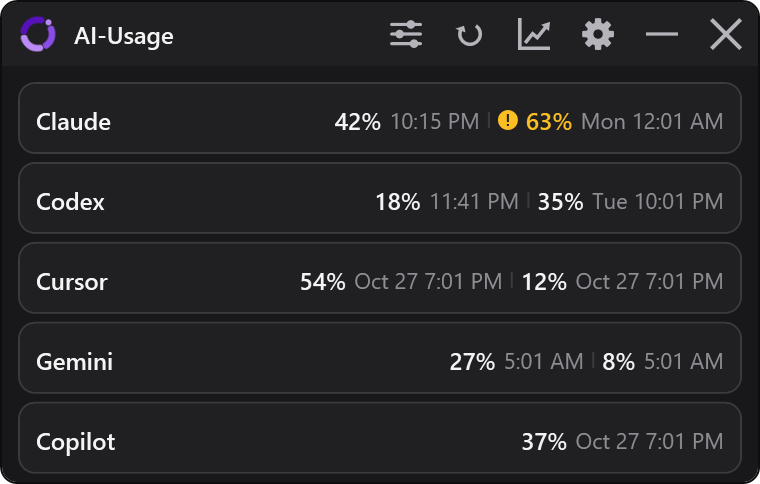
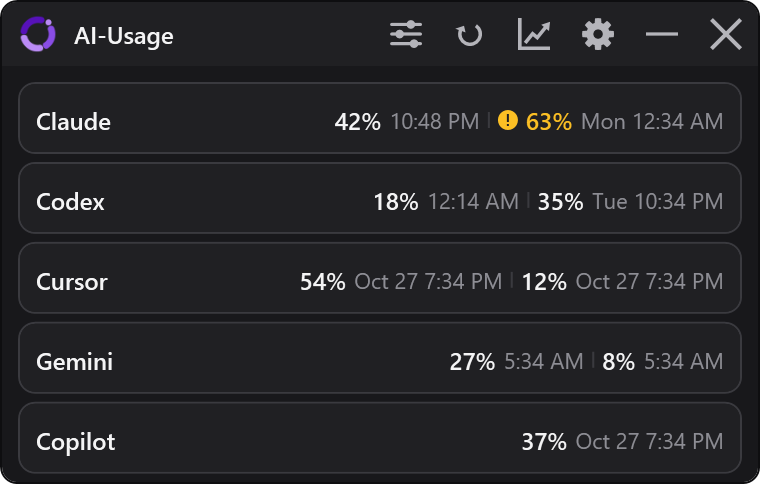
Make the README sample usage look like a real year

diff --git a/tools/ReadmeShots/SampleUsage.cs b/tools/ReadmeShots/SampleUsage.cs
@@ -1,75 +1,160 @@
-using AiUsage.Stats;
+using AiUsage.Stats;
 
 namespace ReadmeShots;
 
-/// <summary>Twelve months of invented token usage for the statistics picture: a Claude and a Codex
-/// session on most weekdays, lighter and rarer on weekends, growing over the year, mostly cache reads.</summary>
+/// <summary>Invented token usage for the statistics picture, shaped like a real developer's year:
+/// Claude from about eleven months back, Codex joining later, quiet weekends with the odd burst,
+/// holidays and sick days, uneven day sizes, a focus project per week, newer models replacing older
+/// ones, and a busier last few weeks. Seeded, so every run draws the same picture.</summary>
 internal static class SampleUsage
 {
     private static readonly string[] Projects =
     [
-        @"C:\Projects\web-shop", @"C:\Projects\api-server", @"C:\Projects\mobile-app", @"C:\Projects\docs-site",
+        @"C:\Projects\checkout-service", @"C:\Projects\aurora-ui", @"C:\Projects\billing-api",
+        @"C:\Projects\infra-terraform", @"C:\Projects\ml-pipeline", @"C:\Projects\landing-page",
     ];
 
-    private static readonly double[] ProjectWeights = [0.38, 0.30, 0.20, 0.12];
-
-    // Working hours carry most of the day, with a quiet start and a lunch dip, so the hour chart
-    // reads as a calm curve instead of a few spikes.
-    private static readonly double[] HourWeights =
-    [
-        0, 0, 0, 0, 0, 0, 0, 0.2, 0.6, 1.0, 1.2, 1.1, 0.6, 0.9, 1.2, 1.3, 1.1, 0.9, 0.6, 0.4, 0.3, 0.2, 0.1, 0,
-    ];
+    private static readonly double[] ProjectWeights = [0.30, 0.24, 0.18, 0.12, 0.10, 0.06];
 
     internal static IReadOnlyList<StatsRecord> Build(DateOnly today)
     {
-        var random = new Random(20260702);
+        var random = new Random(20261008);
         var records = new List<StatsRecord>();
-        var first = today.AddDays(-364);
+        var first = today.AddDays(-330);
+        var codexStart = today.AddDays(-190);
+        // A two week summer break about four months back.
+        var summerBreakStart = today.AddDays(-125);
+        var codexStreak = 0;
+        var focusProject = 0;
 
         for (var day = first; day <= today; day = day.AddDays(1))
         {
-            var progress = (day.DayNumber - first.DayNumber) / 364.0;
+            var progress = (day.DayNumber - first.DayNumber) / 330.0;
+            if (day.DayOfWeek == DayOfWeek.Monday || day == first)
+                focusProject = PickWeighted(random, ProjectWeights);
+
+            if (IsDayOff(day, today, summerBreakStart, random))
+                continue;
+
+            // Uneven day sizes (a log-normal spread) on a base that grows over the year and picks up
+            // in the last six weeks, so the period comparison shows growth.
+            var size = Math.Exp(0.6 * Gaussian(random));
+            var dayTotal = 20_000_000 * (0.8 + 0.7 * progress) * size;
+            dayTotal *= 1 + 0.35 * Math.Max(0, progress - 0.87) / 0.13;
             var weekend = day.DayOfWeek is DayOfWeek.Saturday or DayOfWeek.Sunday;
-
-            // A steady rise over the year, a slow few-week swell on top and modest day-to-day noise:
-            // every day has some usage, weekends a lighter share of it.
-            var swell = 1 + 0.06 * Math.Sin(day.DayNumber / 9.0);
-            var noise = 0.8 + 0.4 * random.NextDouble();
-            var dayTotal = 30_000_000 * (0.6 + 0.6 * progress) * swell * noise;
-            // The last six weeks pick up pace, so the period comparison shows growth.
-            dayTotal *= 1 + 0.3 * Math.Max(0, progress - 0.88) / 0.12;
             if (weekend)
-                dayTotal *= 0.3 + 0.15 * random.NextDouble();
+                dayTotal *= 0.15 + 0.5 * random.NextDouble();
 
-            // Claude leads most days; every sixth week is a Codex-heavy stretch.
-            var codexWeek = day.DayNumber / 7 % 6 == 3;
-            var claudeShare = (codexWeek ? 0.36 : 0.66) + 0.08 * (random.NextDouble() - 0.5);
-            AddProviderDay(records, random, "claude", day, dayTotal * claudeShare);
-            AddProviderDay(records, random, "codex", day, dayTotal * (1 - claudeShare));
+            // Codex joins later and grows; now and then a run of Codex-heavy days, and some days
+            // without Codex at all.
+            var codexShare = 0.0;
+            if (day >= codexStart)
+            {
+                var codexProgress = (day.DayNumber - codexStart.DayNumber) / 190.0;
+                if (codexStreak == 0 && random.NextDouble() < 0.07)
+                    codexStreak = random.Next(2, 6);
+                if (codexStreak > 0)
+                {
+                    codexShare = 0.6 + 0.25 * random.NextDouble();
+                    codexStreak--;
+                }
+                else if (random.NextDouble() > 0.3)
+                {
+                    codexShare = (0.1 + 0.3 * codexProgress) * (0.5 + random.NextDouble());
+                }
+            }
+
+            var hours = DayHours(random, weekend);
+            AddProviderDay(records, random, "claude", day, dayTotal * (1 - codexShare), progress, hours, focusProject);
+            if (codexShare > 0)
+                AddProviderDay(records, random, "codex", day, dayTotal * codexShare, progress, hours, focusProject);
         }
         return records;
     }
 
-    private static void AddProviderDay(List<StatsRecord> records, Random random, string provider, DateOnly day, double total)
+    /// <summary>Most weekends, the summer break, the days around new year and a few sick days carry
+    /// no usage. The last three weeks stay workdays, so the day detail always has one to show.</summary>
+    private static bool IsDayOff(DateOnly day, DateOnly today, DateOnly summerBreakStart, Random random)
     {
-        var weightSum = HourWeights.Sum();
-        for (var hour = 0; hour < HourWeights.Length; hour++)
+        var offRoll = random.NextDouble();
+        if (day > today.AddDays(-21))
+            return day.DayOfWeek is DayOfWeek.Saturday or DayOfWeek.Sunday && offRoll < 0.6;
+        if (day >= summerBreakStart && day < summerBreakStart.AddDays(14))
+            return true;
+        if ((day.Month == 12 && day.Day >= 24) || (day.Month == 1 && day.Day <= 2))
+            return true;
+        if (day.DayOfWeek is DayOfWeek.Saturday or DayOfWeek.Sunday)
+            return offRoll < 0.65;
+        return offRoll < 0.06;
+    }
+
+    /// <summary>A weight per hour: two to four working sessions of one to three hours between eight
+    /// and seven, and on some days a late session in the evening.</summary>
+    private static double[] DayHours(Random random, bool weekend)
+    {
+        var hours = new double[24];
+        var sessions = weekend ? random.Next(1, 3) : random.Next(2, 5);
+        for (var session = 0; session < sessions; session++)
         {
-            if (HourWeights[hour] <= 0)
+            var start = random.Next(weekend ? 10 : 8, 18);
+            var length = random.Next(1, 4);
+            for (var hour = start; hour < Math.Min(24, start + length); hour++)
+                hours[hour] += 0.5 + random.NextDouble();
+        }
+        if (random.NextDouble() < 0.15)
+            hours[random.Next(20, 24)] += 0.4 + 0.6 * random.NextDouble();
+        return hours;
+    }
+
+    private static void AddProviderDay(
+        List<StatsRecord> records, Random random, string provider, DateOnly day, double total, double progress,
+        double[] hours, int focusProject)
+    {
+        var weightSum = hours.Sum();
+        var cacheShare = 0.80 + 0.1 * random.NextDouble();
+        for (var hour = 0; hour < hours.Length; hour++)
+        {
+            if (hours[hour] <= 0)
                 continue;
 
-            var sliceTotal = total * HourWeights[hour] / weightSum * (0.85 + 0.3 * random.NextDouble());
-            var project = Projects[PickWeighted(random, ProjectWeights)];
-            var (model, effort) = provider == "claude"
-                ? (random.NextDouble() < 0.62 ? "claude-opus-4-6" : "claude-sonnet-4-6", random.NextDouble() < 0.6 ? "high" : "medium")
-                : ("gpt-5-codex", random.NextDouble() < 0.7 ? "medium" : "high");
+            var sliceTotal = total * hours[hour] / weightSum;
+            var project = Projects[random.NextDouble() < 0.6 ? focusProject : PickWeighted(random, ProjectWeights)];
+            var (model, effort) = PickModel(random, provider, progress);
 
-            var cacheRead = (long)(sliceTotal * 0.86);
-            var cacheWrite = (long)(sliceTotal * 0.08);
+            var cacheRead = (long)(sliceTotal * cacheShare);
+            var cacheWrite = (long)(sliceTotal * (0.95 - cacheShare) * 0.7);
             var input = (long)(sliceTotal * 0.02);
             var output = (long)sliceTotal - cacheRead - cacheWrite - input;
             records.Add(new StatsRecord(provider, day, model, project, input, output, cacheWrite, cacheRead, hour, effort));
         }
+    }
+
+    /// <summary>Newer models take over during the year: Opus 4.8 and Sonnet 5 replace the 4.6
+    /// models, GPT-5.6 Sol replaces Codex's first model, with a little Haiku for quick jobs.</summary>
+    private static (string Model, string Effort) PickModel(Random random, string provider, double progress)
+    {
+        var roll = random.NextDouble();
+        if (provider == "codex")
+        {
+            var model = roll < Math.Clamp((progress - 0.55) * 2.5, 0, 0.9) ? "gpt-5.6-sol" : "gpt-5-codex";
+            return (model, random.NextDouble() < 0.65 ? "medium" : "high");
+        }
+
+        var newer = progress > 0.5 && random.NextDouble() < Math.Clamp((progress - 0.5) * 3, 0, 0.95);
+        var claudeModel = roll switch
+        {
+            < 0.06 => "claude-haiku-4-5",
+            < 0.62 => newer ? "claude-opus-4-8" : "claude-opus-4-6",
+            _ => newer ? "claude-sonnet-5" : "claude-sonnet-4-6",
+        };
+        return (claudeModel, random.NextDouble() < 0.55 ? "high" : "medium");
+    }
+
+    private static double Gaussian(Random random)
+    {
+        var u1 = 1.0 - random.NextDouble();
+        var u2 = random.NextDouble();
+        return Math.Sqrt(-2.0 * Math.Log(u1)) * Math.Cos(2.0 * Math.PI * u2);
     }
 
     private static int PickWeighted(Random random, double[] weights)
@@ -84,13 +169,18 @@ internal static class SampleUsage
         return weights.Length - 1;
     }
 
-    /// <summary>The busiest weekday in the window a little over a week back, so the day detail
-    /// beneath the year grid has plenty to show.</summary>
+    /// <summary>The most varied weekday in the window a little over a week back (both agents, then
+    /// the most models, projects and hours), so the day detail beneath the year grid has plenty to
+    /// show.</summary>
     internal static DateOnly PickBusyWeekday(IReadOnlyList<StatsRecord> records, DateOnly today) =>
         records
-            .Where(record => record.Day >= today.AddDays(-13) && record.Day <= today.AddDays(-8)
+            .Where(record => record.Day >= today.AddDays(-16) && record.Day <= today.AddDays(-8)
                 && record.Day.DayOfWeek is not (DayOfWeek.Saturday or DayOfWeek.Sunday))
             .GroupBy(record => record.Day)
-            .OrderByDescending(group => group.Sum(record => record.TotalTokens))
+            .OrderByDescending(group => group.Select(record => record.Provider).Distinct().Count())
+            .ThenByDescending(group => group.Select(record => record.Model).Distinct().Count()
+                + group.Select(record => record.Project).Distinct().Count()
+                + group.Select(record => record.Hour).Distinct().Count())
+            .ThenByDescending(group => group.Sum(record => record.TotalTokens))
             .First().Key;
 }
